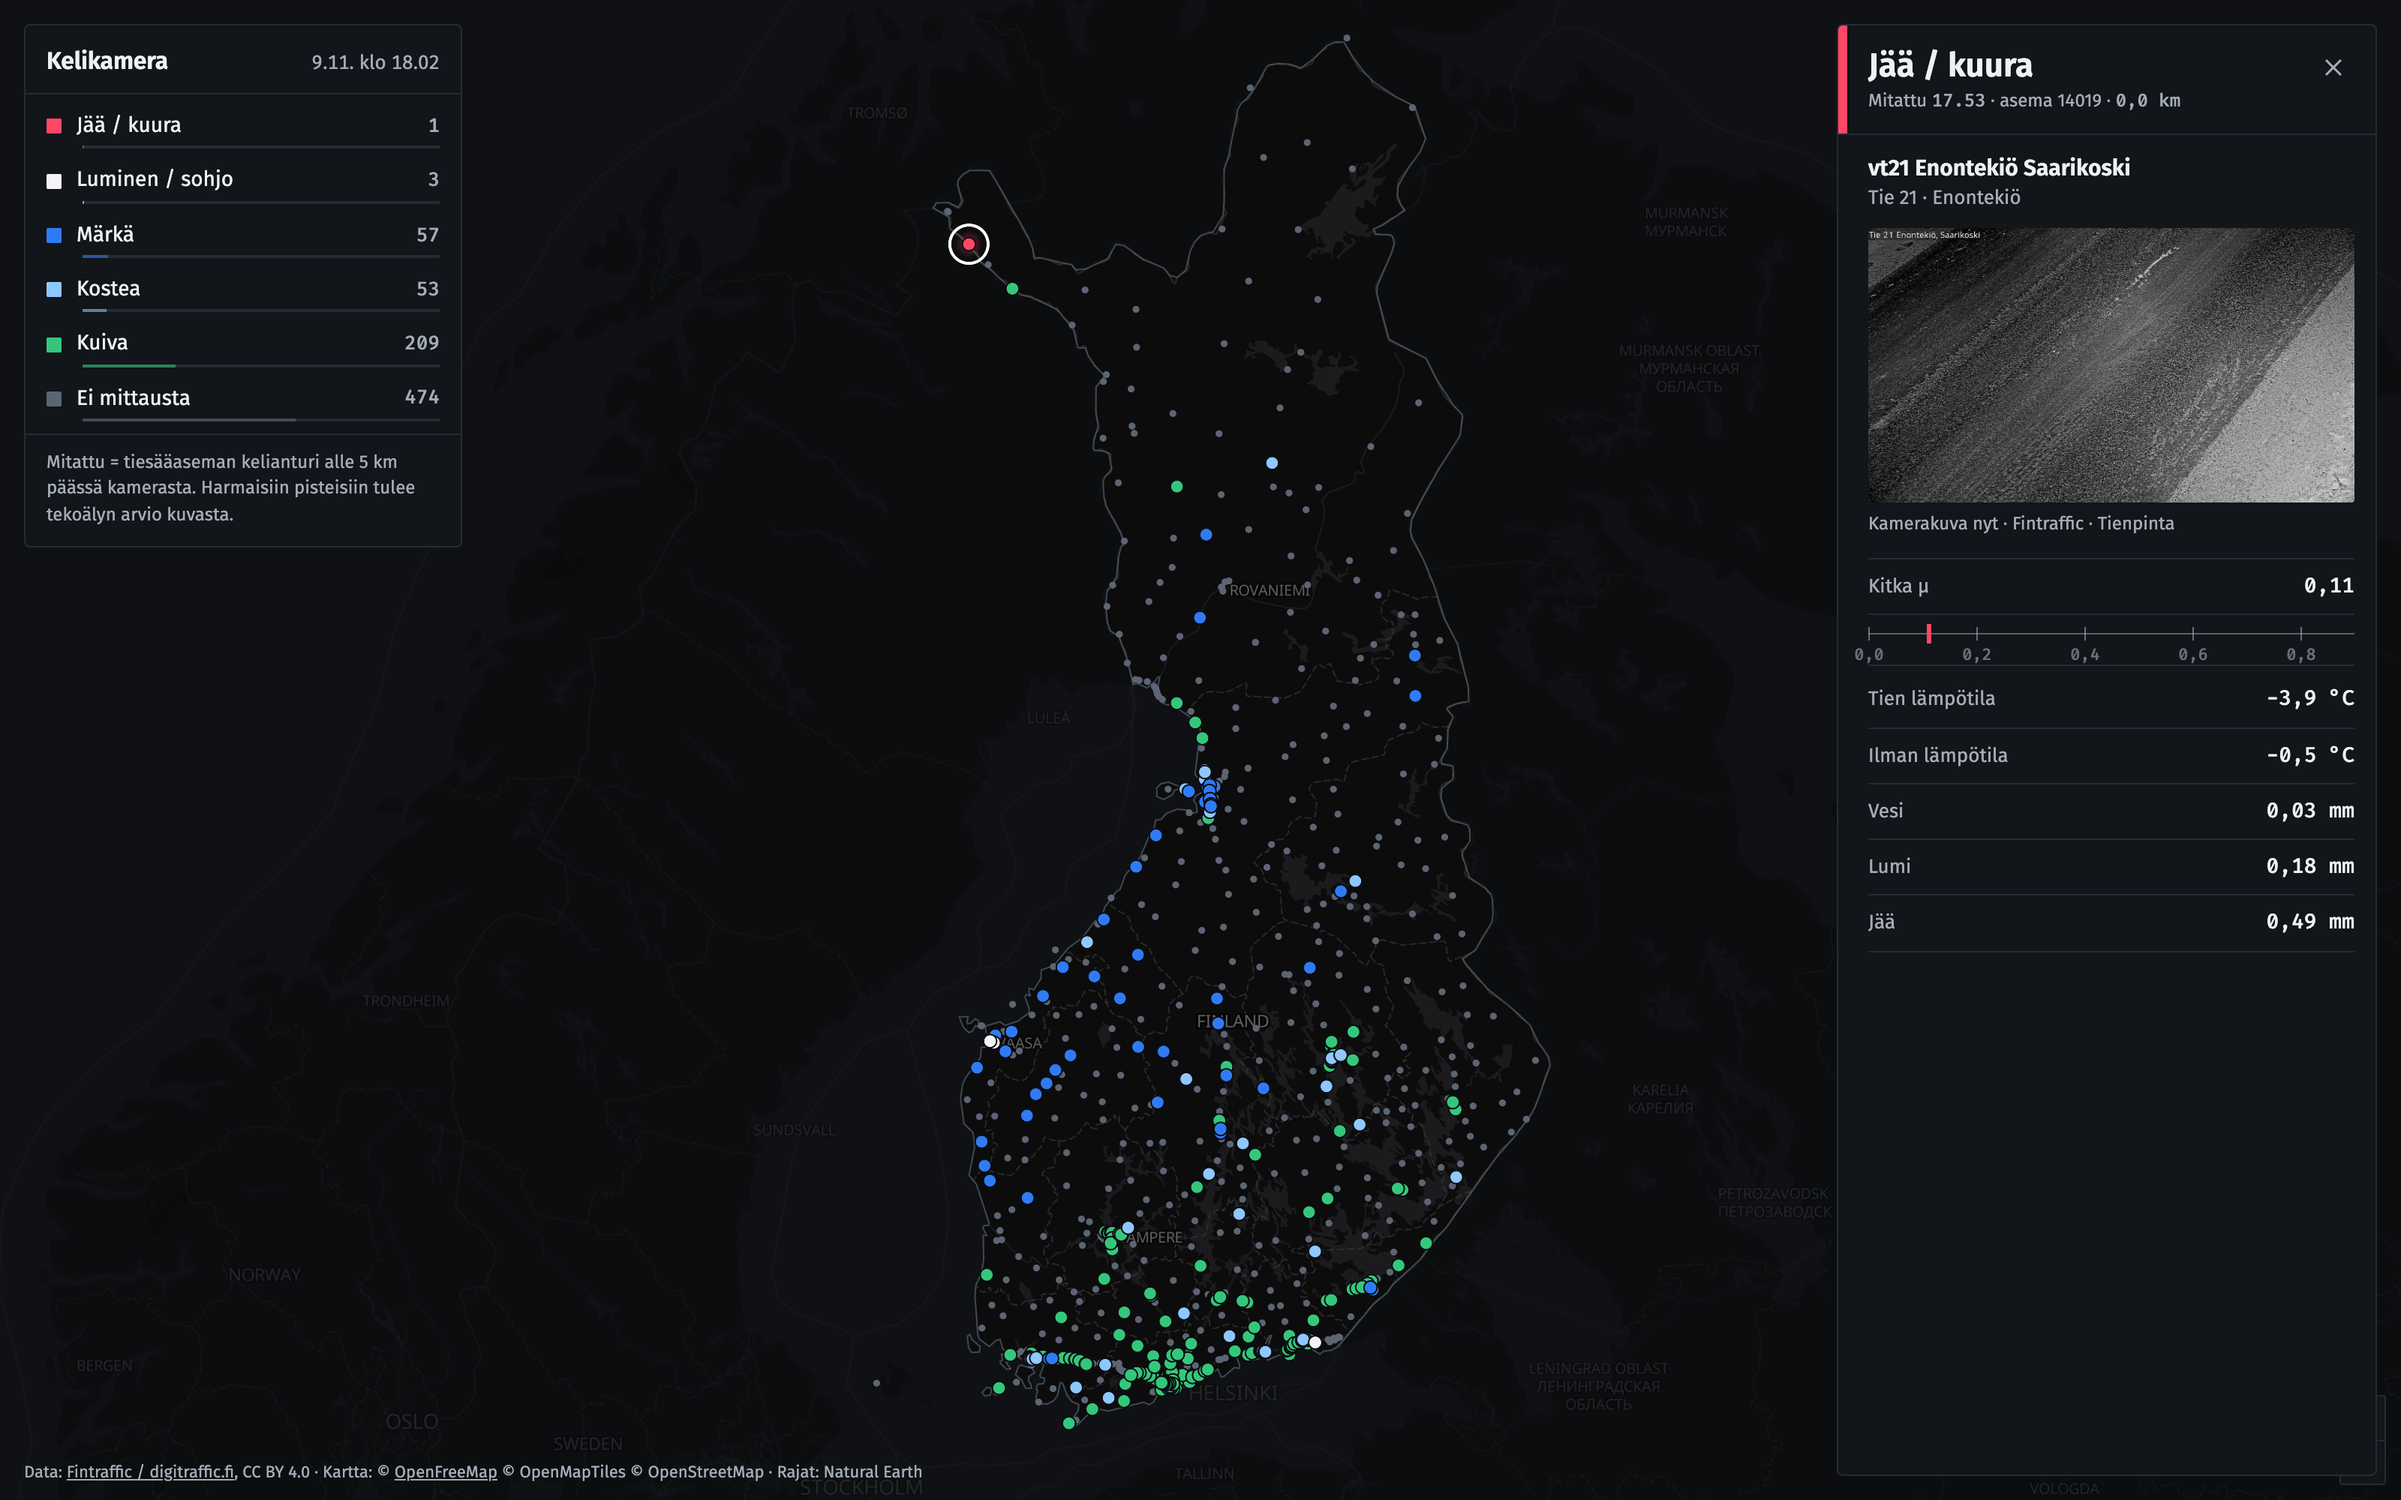
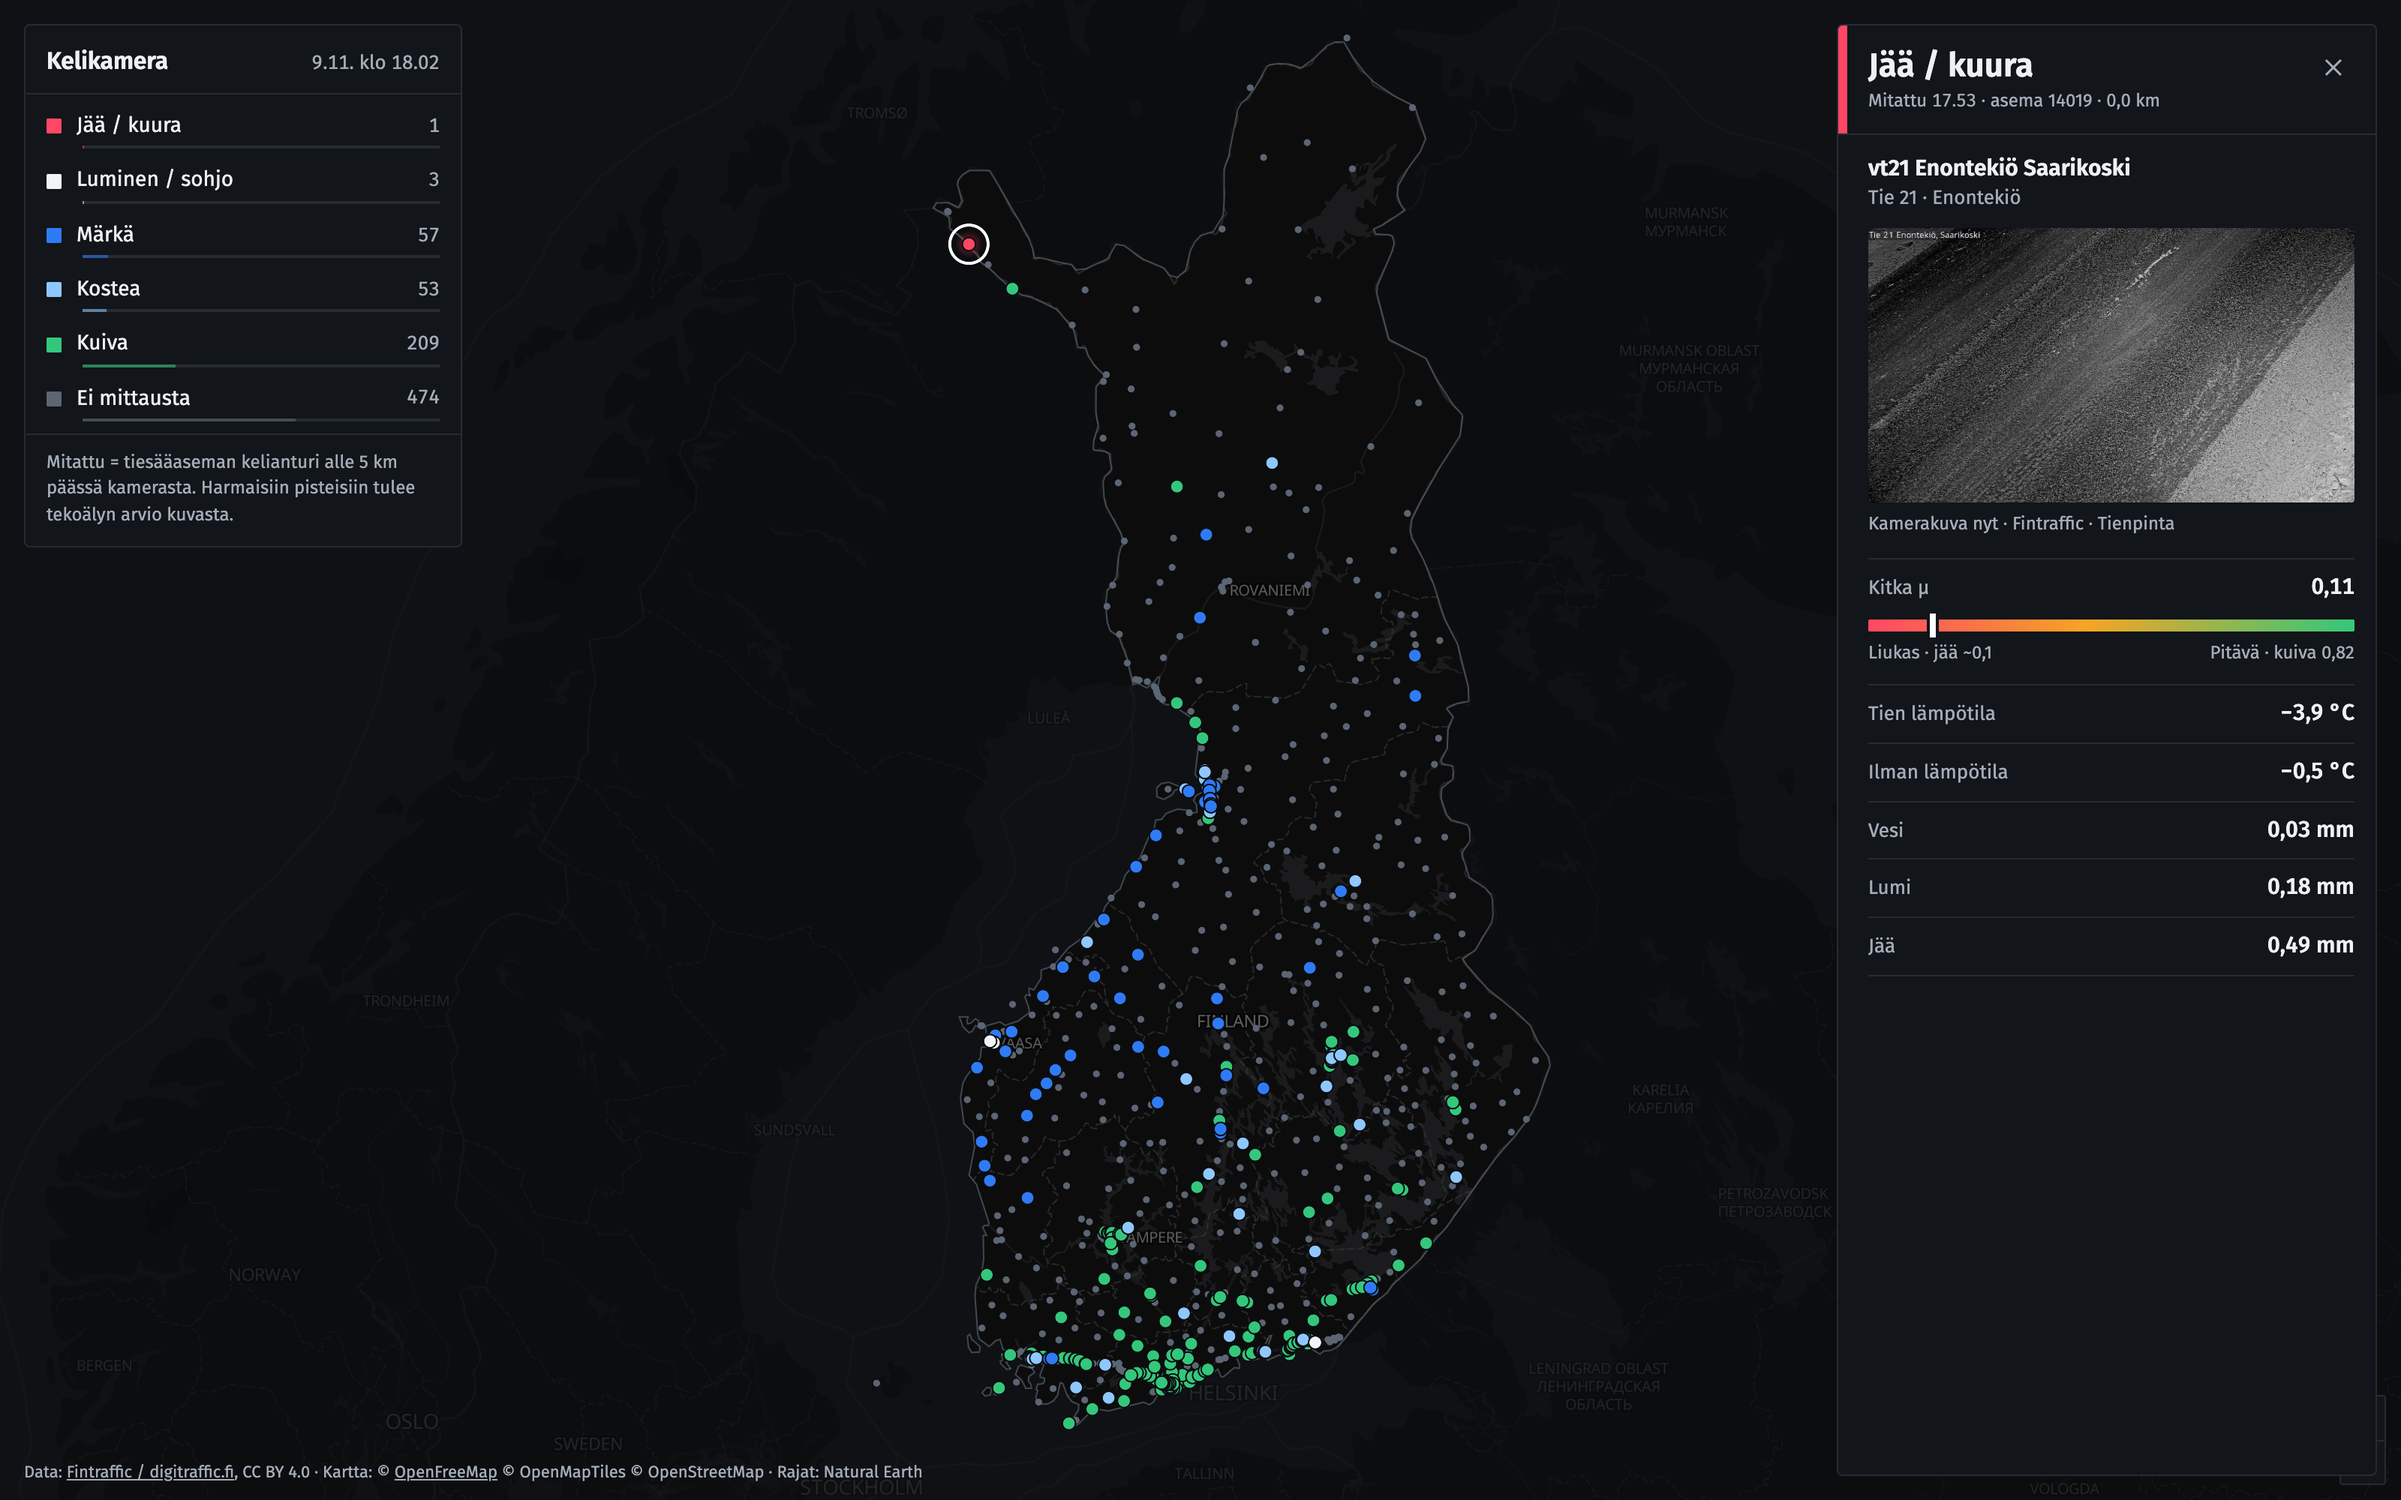
Kitka takaisin värilliseksi palkiksi, ei tasalevyistä fonttia

Changed region(s): [[0.7812, 0.403, 1.0, 0.651], [0.8125, 0.062, 0.9062, 0.093]]

diff --git a/site/index.html b/site/index.html
@@ -7,20 +7,19 @@
 <meta name="description" content="Tien pinnan tila Fintrafficin kelikameroissa: mitattu tiesääasemilta, tekoälyarvio tulossa.">
 <link rel="stylesheet" href="https://unpkg.com/maplibre-gl@4.7.1/dist/maplibre-gl.css">
 <link rel="preconnect" href="https://fonts.googleapis.com">
-<link href="https://fonts.googleapis.com/css2?family=Fira+Code:wght@500&family=Fira+Sans:wght@400;500;600&display=swap" rel="stylesheet">
+<link href="https://fonts.googleapis.com/css2?family=Fira+Sans:wght@400;500;600&display=swap" rel="stylesheet">
 <style>
 :root{
   --bg:#0b0d10; --surface:#121519; --surface-2:#181c22; --rule:#262b33;
   --text:#eef1f4; --text-2:#a3acb8; --focus:#ffd23f;
   --kuiva:#34c77b; --kostea:#8fc7ff; --marka:#2f7bf6; --luminen:#f2f4f8; --jaa:#ff4766; --none:#5b6573;
-  --mono:"Fira Code",ui-monospace,monospace;
 }
 *{box-sizing:border-box;margin:0;padding:0}
 html,body{height:100%;background:var(--bg);color:var(--text);font:15px/1.45 "Fira Sans",system-ui,sans-serif}
 button{font:inherit;color:inherit;background:none;border:0;cursor:pointer}
 :focus-visible{outline:2px solid var(--focus);outline-offset:2px}
 #map{position:fixed;inset:0}
-.num{font-family:var(--mono);font-variant-numeric:tabular-nums}
+.num{font-variant-numeric:tabular-nums}
 
 /* ---------- selite ---------- */
 .key{position:fixed;left:16px;top:16px;z-index:5;width:292px;background:var(--surface);border:1px solid var(--rule);border-radius:4px}
@@ -59,20 +58,20 @@ button{font:inherit;color:inherit;background:none;border:0;cursor:pointer}
 .shot figcaption{font-size:12px;color:var(--text-2);margin-top:6px}
 .read{margin:14px 14px 0 20px;border-top:1px solid var(--rule)}
 .read .kv{display:flex;justify-content:space-between;align-items:baseline;padding:8px 0;border-bottom:1px solid var(--rule)}
+.read .kv.joined{border-bottom:0;padding-bottom:2px}
 .read dt{font-size:13px;color:var(--text-2)}
-.read dd{font-size:14px}
-.scale{position:relative;margin:6px 0 4px;height:28px;border-bottom:1px solid var(--rule)}
-.scale .track{position:absolute;left:0;right:0;top:6px;height:1px;background:var(--text-2);opacity:.5}
-.scale .tick{position:absolute;top:2px;width:1px;height:9px;background:var(--text-2);opacity:.6}
-.scale .tick span{position:absolute;top:11px;left:50%;transform:translateX(-50%);font:11px var(--mono);color:var(--text-2);white-space:nowrap}
-.scale .mark{position:absolute;top:0;width:3px;height:13px;margin-left:-1px;background:var(--c)}
+.read dd{font-size:15px;font-weight:500}
+.scale{padding:8px 0 12px;border-bottom:1px solid var(--rule)}
+.scale .bar{position:relative;height:8px;border-radius:1px;background:linear-gradient(90deg,var(--jaa),#f5a524 45%,var(--kuiva))}
+.scale .mark{position:absolute;top:-4px;width:4px;height:16px;margin-left:-2px;background:#fff;box-shadow:0 0 0 2px var(--surface)}
+.scale .ends{display:flex;justify-content:space-between;margin-top:6px;font-size:12px;color:var(--text-2)}
 .empty{margin:14px 14px 0 20px;padding:2px 0 2px 12px;border-left:2px solid var(--none);font-size:13px;color:var(--text-2)}
 .empty strong{display:block;color:var(--text);font-weight:500;margin-bottom:2px}
 .hist{margin:16px 14px 18px 20px}
 .hist h3{font-size:13px;font-weight:500;color:var(--text-2);margin-bottom:6px}
 .strip{display:flex;gap:2px}
 .strip i{flex:1;height:14px}
-.strip-t{display:flex;justify-content:space-between;font:11px var(--mono);color:var(--text-2);margin-top:4px}
+.strip-t{display:flex;justify-content:space-between;font-size:11px;color:var(--text-2);margin-top:4px;font-variant-numeric:tabular-nums}
 
 .foot{position:fixed;left:16px;bottom:10px;z-index:4;font-size:11px;color:var(--text-2)}
 .foot a{color:var(--text-2)}
@@ -208,11 +207,11 @@ function applyFilter(){
   map.setFilter("cams-halo",hidden.has("jää/kuura")?["==",["get","k"],"__none"]:["==",["get","k"],"jää/kuura"]);
 }
 
-function scale(fr,color){
-  const MAX=0.9, ticks=[0,.2,.4,.6,.8];
-  return `<div class="scale" style="--c:${color}" aria-hidden="true"><div class="track"></div>
-    ${ticks.map(t=>`<div class="tick" style="left:${t/MAX*100}%"><span>${num(t,"",1)}</span></div>`).join("")}
-    ${fr!=null?`<div class="mark" style="left:${Math.min(fr,MAX)/MAX*100}%"></div>`:""}</div>`;
+function scale(fr){
+  const MAX=0.82; // kuivan tien tyypillinen kitka anturilla
+  return `<div class="scale" aria-hidden="true"><div class="bar">
+    ${fr!=null?`<i class="mark" style="left:${Math.max(0,Math.min(fr,MAX))/MAX*100}%"></i>`:""}</div>
+    <div class="ends"><span>Liukas · jää ~0,1</span><span>Pitävä · kuiva 0,82</span></div></div>`;
 }
 
 function open(id){
@@ -229,8 +228,8 @@ function open(id){
     <figure class="shot"><img src="${c.img}?t=${Date.now()}" alt="Kelikamerakuva, ${esc(c.name)}">
       <figcaption>Kamerakuva nyt · Fintraffic${c.view?" · "+esc(c.view):""}</figcaption></figure>
     ${c.cls?`<dl class="read">
-        <div class="kv"><dt>Kitka µ</dt><dd class="num">${num(c.friction,"",2)}</dd></div>
-        ${scale(c.friction,col)}
+        <div class="kv joined"><dt>Kitka µ</dt><dd class="num">${num(c.friction,"",2)}</dd></div>
+        ${scale(c.friction)}
         <div class="kv"><dt>Tien lämpötila</dt><dd class="num">${num(c.roadT," °C")}</dd></div>
         <div class="kv"><dt>Ilman lämpötila</dt><dd class="num">${num(c.airT," °C")}</dd></div>
         <div class="kv"><dt>Vesi</dt><dd class="num">${num(c.water," mm",2)}</dd></div>

diff --git a/DECISIONS.md b/DECISIONS.md
@@ -216,15 +216,20 @@ pillerisirut pisteineen, sateenkaariliukuväri kitkapalkissa, isoilla kirjaimill
 katkoviivalaatikko.
 
 **Päätös:** Mittaristomainen, suoralinjainen ilme (Swiss-minimalismi, tiivis tietotyökalu). ui-ux-pro-max-skillin
-suosituksista otettiin tyyli, tiheys ja fonttipari (Fira Sans + Fira Code tasalevyisille lukemille). Sen
+suosituksista otettiin tyyli, tiheys ja Fira Sans -fontti. Sen
 ehdottamaa vaaleaa yritysportaalipalettia ja sivurakennetta ei otettu, koska ne eivät sovi karttatyökaluun.
 
 - **Selite = taulukko:** värineliö, nimi, määrä tasalevyisenä ja ohut osuuspalkki (osuus kaikista kameroista).
   Rivit ovat painikkeita (`aria-pressed`), ja pois päältä oleva rivi näkyy yliviivattuna ja ontolla neliöllä,
   joten tila ei ole pelkän värin varassa.
 - **Tietopaneeli = lukemataulu:** tila 6 px värinauhana ja isona otsikkona, arvot riveinä ohuin viivoin
-  erotettuina. Kitka viivaimena 0–0,8 (ei sateenkaarta, koska värit kertovat jo tilan).
-- **Tasalevyinen fontti vain lukemille**, ei lauseille eikä aikaleimoille.
+  erotettuina.
+- **Kitka värillisenä palkkina** (punainen → keltainen → vihreä) valkoisella merkillä ja päätyselitteillä
+  "Liukas · jää ~0,1" / "Pitävä · kuiva 0,82". Kokeiltiin ohutta numeroviivainta, mutta palautettiin palkki
+  käyttäjän palautteesta: palkista näkee yhdellä silmäyksellä, ollaanko liukkaalla vai pitävällä alueella,
+  kun viivain vaati numeroiden lukemista. Väri ei ole ainoa tiedon kantaja, koska arvo ja selitteet ovat tekstinä.
+- **Ei tasalevyistä fonttia** (Fira Code poistettiin käyttäjän toiveesta). Numerot ovat Fira Sansia
+  tasalevyisillä numeromuodoilla (`tabular-nums`), jotta lukemat asettuvat siististi allekkain.
 - **Näkyvä fokus** (2 px keltainen) ja 40 px sulkemispainike. Paneelin liuku poistetaan, jos käyttäjä on
   pyytänyt vähemmän liikettä.
 
